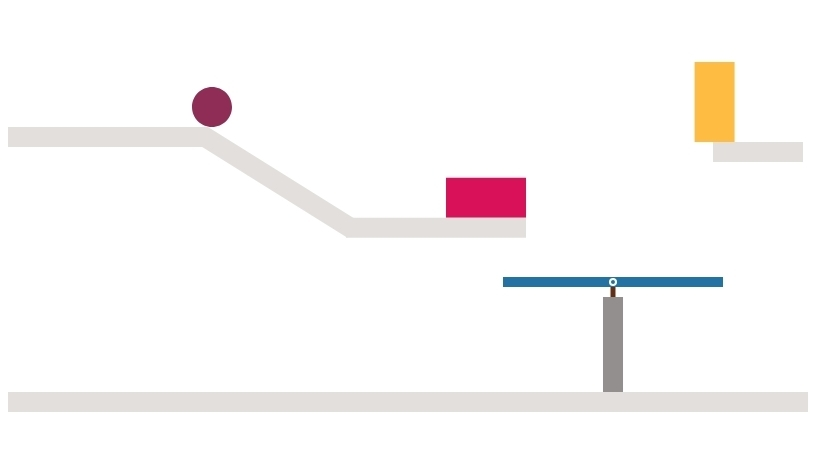
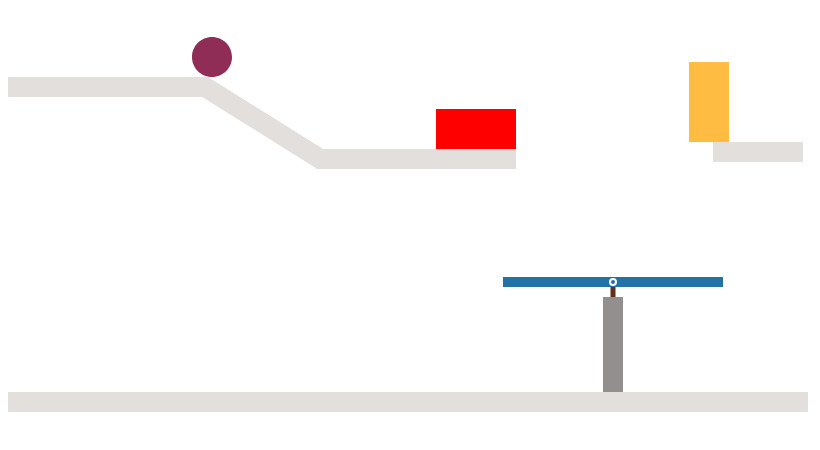
updated color vision trials

Changed region(s): [[0.0, 0.0622, 0.6402, 0.5289], [0.6098, 0.5911, 0.8841, 0.6533], [0.8232, 0.1244, 0.9146, 0.3422]]

diff --git a/04_trials.js b/04_trials.js
@@ -84,21 +84,21 @@ const color_vision_trials = [
         expected: 'blue',
         id: 'blue'
     },
-    {
-        picture: "stimuli/img/color_vision_red.png",
-        QUD: "What's the color of the block on the picture?",
-        question_left_part: "The block is ",
-        question_right_part: ".",
-        option1: 'black',
-        option2: 'blue',
-        option3: 'green',
-        option4: 'grey',
-        option5: 'purple',
-        option6: 'red',
-        option7: 'yellow',
-        expected: 'red',
-        id: 'red'
-    },
+    // {
+    //     picture: "stimuli/img/color_vision_red.png",
+    //     QUD: "What's the color of the block on the picture?",
+    //     question_left_part: "The block is ",
+    //     question_right_part: ".",
+    //     option1: 'black',
+    //     option2: 'blue',
+    //     option3: 'green',
+    //     option4: 'grey',
+    //     option5: 'purple',
+    //     option6: 'red',
+    //     option7: 'yellow',
+    //     expected: 'red',
+    //     id: 'red'
+    // },
     {
         picture: "stimuli/img/color_vision_green.png",
         QUD: "What's the color of the block on the picture?",
@@ -114,21 +114,21 @@ const color_vision_trials = [
         expected: 'green',
         id: 'green'
     },
-    {
-        picture: "stimuli/img/color_vision_yellow.png",
-        QUD: "What's the color of the block on the picture?",
-        question_left_part: "The block is ",
-        question_right_part: ".",
-        option1: 'black',
-        option2: 'blue',
-        option3: 'green',
-        option4: 'grey',
-        option5: 'purple',
-        option6: 'red',
-        option7: 'yellow',
-        expected: 'yellow',
-        id: 'yellow'
-    },
+    // {
+    //     picture: "stimuli/img/color_vision_yellow.png",
+    //     QUD: "What's the color of the block on the picture?",
+    //     question_left_part: "The block is ",
+    //     question_right_part: ".",
+    //     option1: 'black',
+    //     option2: 'blue',
+    //     option3: 'green',
+    //     option4: 'grey',
+    //     option5: 'purple',
+    //     option6: 'red',
+    //     option7: 'yellow',
+    //     expected: 'yellow',
+    //     id: 'yellow'
+    // },
     {
         picture: "stimuli/img/color_vision_red_yellow.png",
         QUD: "What's the color of the <b>upper</b> block on the picture?",

diff --git a/stimuli/05_train_stimuli.js b/stimuli/05_train_stimuli.js
@@ -25,8 +25,7 @@ trials_independent = function(){
     let walls = Walls.train.independent;
     let ramp = makeRamp(dir[id][0], prior[id][0], false, walls[0], "top", false);
 
-    // let color_blocks = id == "ind2" ? cols.test_blocks : cols.train_blocks;
-    let color_blocks = cols.train_blocks;
+    let color_blocks = id == "ind2" ? cols.test_blocks : cols.train_blocks;
     let b1 = blockOnBase(ramp.wall_bottom, PRIOR['impossible'],
       color_blocks[0], 'block1', dir[id][0] == 'horizontal');
     let b2 = blockOnBase(walls[1], -PRIOR[dir[id][1]][prior[id][1]],

diff --git a/05_views.js b/05_views.js
@@ -510,7 +510,7 @@ _.map(_.range(FRIDGE_TRIALS.length), function(idx){
 _.map(_.range(TEST_TRIALS.length), function(arr){
   multi_slider_views.push(multi_slider_view(arr));
 });
-_.map(_.range(0,8), function(idx){
+_.map(_.range(0, color_vision_trials.length), function(idx){
   color_vision_views.push(color_vision_view(idx));
 });
 

diff --git a/stimuli/01_config.js b/stimuli/01_config.js
@@ -1,4 +1,4 @@
-const DEBUG = false;
+const DEBUG = true;
 // var MODE = "color-vision"
 // var MODE = "train"
 // var MODE = "test"
